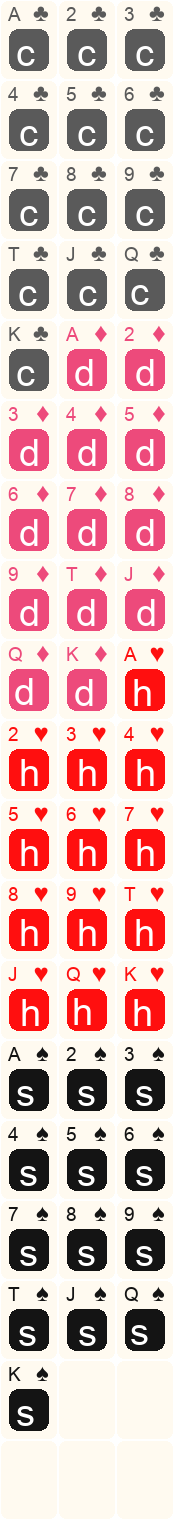
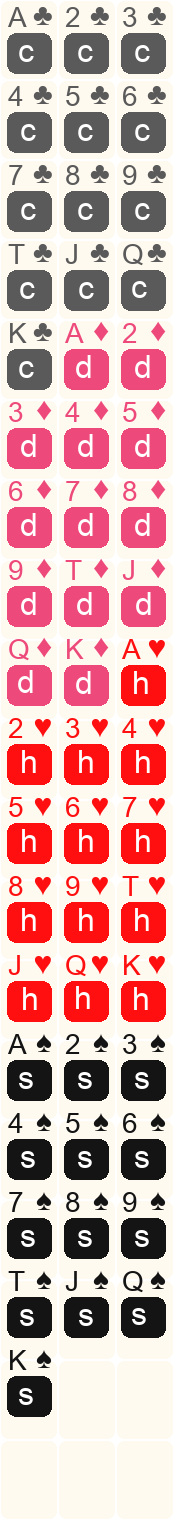
more Y for header area of card to allow larger font

diff --git a/src/scenes/game-scene.ts b/src/scenes/game-scene.ts
@@ -8,7 +8,7 @@ import { Effects } from '../lib/effects';
 // scale factor for card image game objects // not used
 
 // vertical gap between stacked cards i.e. in tableau
-const STACK_Y_GAP = 22 * UI_CONFIG.scale;
+const STACK_Y_GAP = 28 * UI_CONFIG.scale;
 
 // horizontal random shift to make tableau less precise
 const maxShiftX = 0;
@@ -18,11 +18,11 @@ const CARD_BACK_FRAME = 56;
 
 // shadow settings for cards
 const SHADOW_REST_X = 0;
-const SHADOW_REST_Y = +2;
-const SHADOW_REST_INTENSITY = 0.2;
+const SHADOW_REST_Y = 0;
+const SHADOW_REST_INTENSITY = 0;
 const SHADOW_DRAG_X = -4;
-const SHADOW_DRAG_Y = -5;
-const SHADOW_DRAG_INTENSITY = 0.5;
+const SHADOW_DRAG_Y = -6;
+const SHADOW_DRAG_INTENSITY = 0.9;
 
 // x & y positions of the 4 foundation piles
 const FOUNDATION_PILE_X_POSITIONS = [360, 425, 490, 555];

diff --git a/src/scenes/preload-scene.ts b/src/scenes/preload-scene.ts
@@ -14,7 +14,7 @@ export class PreloadScene extends Phaser.Scene {
     this.load.image(ASSET_KEYS.CLICK_TO_START, 'assets/images/clickToStart.png');
 
     // this.load.spritesheet(ASSET_KEYS.CARDS, 'assets/images/cards_edge-0.png', {
-    this.load.spritesheet(ASSET_KEYS.CARDS, 'assets/images/cards_edge-0_alias-4.png', { // 56x78, from 4x blanks
+    this.load.spritesheet(ASSET_KEYS.CARDS, 'assets/images/cards_edge-0-top-1.png', { // 56x78, from 4x blanks
     // this.load.spritesheet(ASSET_KEYS.CARDS, 'assets/images/cards_edge-0_scale-4.png', {
       frameWidth: CARD_WIDTH,
       frameHeight: CARD_HEIGHT,

diff --git a/src/scenes/common.ts b/src/scenes/common.ts
@@ -3,7 +3,7 @@ export const UI_CONFIG = {
   // scene control for developer convenience
   skipTitleScene: true,
   // partly transparent red areas show extent of dropzones
-  showDropZones: true,
+  showDropZones: false,
 } as const;
 
 export const SCENE_KEYS = {

diff --git a/dev/code/write_deck_resize.py b/dev/code/write_deck_resize.py
@@ -5,7 +5,7 @@ from datetime import datetime
 
 def generate_cards():
     # card dimensions and layout
-    scale = 4
+    scale = 1
     card_width = 56 * scale
     card_height = 78 * scale
     card_spacing = 1 * scale # 0 for tight deck spritesheet
@@ -27,9 +27,11 @@ def generate_cards():
 
     # load blank cards deck image
     # old version had 1-pixel black border on each card
-    input_path = "dev/art/cards_blank_56x78_corner-7_edge-0_scale-4.png"
-    output_path = "public/assets/images/cards_edge-0-top-1_alias-4.png"
-    # output_path = "public/assets/images/cards_edge-0_alias-4.png"
+    # input_path = "dev/art/cards_blank_56x78_corner-7_edge-0_scale-4.png"
+    input_path = "dev/art/cards_blank_56x78_corner-7_edge-0-top-1.png"
+
+    #output_path = "public/assets/images/cards_edge-0-top-1_alias-4.png"
+    output_path = "public/assets/images/cards_edge-0-top-1.png"
 
     # version for 4x big image
     # output_path = "public/assets/images/cards_edge-0_scale-4.png"
@@ -38,9 +40,7 @@ def generate_cards():
         img = Image.open(input_path)
         draw = ImageDraw.Draw(img)
         # font for placeholder text
-        phFont = ImageFont.truetype("/System/Library/Fonts/Arial.ttf", 32 * scale)
-        # font for top-left identifier
-        fontsmall = ImageFont.truetype("/System/Library/Fonts/Arial.ttf", 24 * scale)      
+        phFont = ImageFont.truetype("/System/Library/Fonts/Arial.ttf", 36 * scale)     
         
         # generate 52 cards (4 suits × 13 values)
         card_position = 0
@@ -70,14 +70,15 @@ def generate_cards():
                 text_width = bbox[2] - bbox[0]
                 text_height = bbox[3] - bbox[1]
 
-                # 1. Colored rectangle (card area minus a white margin)
+                # 1. Colored rectangle (card area minus a white sideMargin)
                 # Placeholder will be replaced by Suit theme art
-                margin = 6 * scale
-                topmargin = 28 * scale # how much space above graphic
-                rect_x1 = x - card_width//2 + margin
-                rect_y1 = y - card_height//2 + topmargin 
-                rect_x2 = x + card_width//2 - margin
-                rect_y2 = y + card_height//2 - margin
+                phMargin = 5 * scale
+                header = 28 * scale # how much space above graphic
+
+                rect_x1 = x - card_width//2 + phMargin
+                rect_y1 = y - card_height//2 + header 
+                rect_x2 = x + card_width//2 - phMargin
+                rect_y2 = y + card_height//2 - phMargin
 
                 # draw.rectangle([rect_x1, rect_y1, rect_x2, rect_y2], fill=colour)
                 graphic_y = rect_y1 + 4 * scale  # start below top area
@@ -92,71 +93,55 @@ def generate_cards():
                 draw.text((text_x, text_y), suitLetter, fill=(255,255,255), font=phFont)
 
                 # 3. Small identifiers visible when card stacked
-                draw.text((xt + 7 * scale, yt + 0 * scale), value, fill=colour, font=fontsmall)
-
-                #4. suit symbol, diamond small in font
-                if (suitLetter == 'd'):
-                  fontSymbol = ImageFont.truetype("/System/Library/Fonts/Arial.ttf", 26 * scale)    
+                # font for top-left identifier
+                if (value == 'Q'):
+                  fontsmall = ImageFont.truetype("/System/Library/Fonts/Arial.ttf", 30 * scale)
+                  leftMargin = 4
                 else:
-                  fontSymbol = ImageFont.truetype("/System/Library/Fonts/Arial.ttf", 24 * scale)
+                  fontsmall = ImageFont.truetype("/System/Library/Fonts/Arial.ttf", 30 * scale)
+                  leftMargin = 6
 
-                topIndent = -4 * scale
-                rightIndent = 21 * scale
+
+                draw.text((xt + leftMargin * scale, yt - 2 * scale), value, fill=colour, font=fontsmall)
+
+                #4. suit symbol
+                symbolFontSize = 36
+                if (suitLetter == 'h'):
+                  fontSymbol = ImageFont.truetype("/System/Library/Fonts/Arial.ttf", (symbolFontSize-2) * scale)
+                elif (suitLetter == 'c'):
+                  fontSymbol = ImageFont.truetype("/System/Library/Fonts/Arial.ttf", (symbolFontSize-2) * scale)     
+                else:
+                  fontSymbol = ImageFont.truetype("/System/Library/Fonts/Arial.ttf", symbolFontSize * scale)
+
+                topIndent = -7 * scale
+                rightIndent = 24 * scale
 
                 if (suitLetter == 'h'):
                   topIndent = topIndent + 1 * scale
                   rightIndent = rightIndent + 2 * scale
 
                 elif (suitLetter == 'c'):
-                  topIndent = topIndent
-                  rightIndent = rightIndent + 3 * scale
+                  topIndent = topIndent + 1 * scale
+                  rightIndent = rightIndent + 4 * scale
 
                 elif (suitLetter == 'd'):
-                  topIndent = topIndent - 1 * scale
+                  topIndent = topIndent * scale
 
                 draw.text((xt + card_width - rightIndent, yt + topIndent), symbol, fill=colour, font=fontSymbol)
                 
                 card_position += 1
         
-        # backup existing file before saving
-        if os.path.exists(output_path):
-            timestamp = datetime.now().strftime("%Y%m%d_%H%M")
-            backup_path = f"dev/art/archive/cards_{timestamp}.png"
-            shutil.copy2(output_path, backup_path)
-            print(f"Backed up existing cards image to: {backup_path}")
+        # # backup existing file before saving
+        # if os.path.exists(output_path):
+        #     timestamp = datetime.now().strftime("%Y%m%d_%H%M")
+        #     backup_path = f"dev/art/archive/cards_{timestamp}.png"
+        #     shutil.copy2(output_path, backup_path)
+        #     print(f"Backed up existing cards image to: {backup_path}")
 
-        # resize down to 56x78 cards with best quality
-        final_width = img.width // scale
-        final_height = img.height // scale
-        img = img.resize((final_width, final_height), Image.Resampling.LANCZOS)
-
-        # # add top and top-corners edge/border
-        # draw_final = ImageDraw.Draw(img)
-        # corner_radius = 7
-
-        # for card_num in range(57):  # all cards including backs
-        #     row = card_num // cards_across
-        #     col = card_num % cards_across
-            
-        #     card_spacing_final = 1
-        #     card_width_final = 56
-        #     card_height_final = 78
-            
-        #     x = card_spacing_final + col * (card_width_final + card_spacing_final)
-        #     y = card_spacing_final + row * (card_height_final + card_spacing_final)
-            
-        #     # draw rounded border - arc for top left corner
-        #     draw_final.arc([x, y, x + corner_radius*2, y + corner_radius*2], 
-        #                   180, 270, fill=(0, 0, 0, 77), width=1)
-            
-        #     # straight line across top (between corners)
-        #     draw_final.line([(x + corner_radius, y), (x + card_width_final - corner_radius - 1, y)], 
-        #                     fill=(0, 0, 0, 77), width=1)
-            
-        #     # arc for top right corner
-        #     draw_final.arc([x + card_width_final - corner_radius*2 - 1, y, 
-        #                     x + card_width_final - 1, y + corner_radius*2], 
-        #                   270, 0, fill=(0, 0, 0, 77), width=1)
+        # # resize down to 56x78 cards with best quality
+        # final_width = img.width // scale
+        # final_height = img.height // scale
+        # img = img.resize((final_width, final_height), Image.Resampling.LANCZOS)
 
         # save the result
         img.save(output_path)

diff --git a/dev/code/blank_deck_maker.py b/dev/code/blank_deck_maker.py
@@ -4,7 +4,7 @@ import os
 
 def create_blank_cards_template():
     """make deck of blank playing cards at 56 by 78 pixels per card"""
-    scale = 4
+    scale = 1
     card_width = 56 * scale
     card_height = 78 * scale
     cards_across = 3
@@ -15,8 +15,6 @@ def create_blank_cards_template():
     # calculate total image size
     total_width = cards_across * card_width + (cards_across + 1) * card_spacing
     total_height = cards_down * card_height + (cards_down + 1) * card_spacing
-    # total_width = cards_across * card_width + card_spacing * (cards_across + 1) + (cards_across - 1)
-    # total_height = cards_down * card_height + card_spacing * (cards_down + 1) + (cards_down - 1)
     
     print(f"Making blank cards template: {total_width}x{total_height}px")
     print(f"Card size: {card_width}x{card_height}px")
@@ -39,8 +37,6 @@ def create_blank_cards_template():
           # calculate card position
           x = card_spacing + col * (card_width + card_spacing)
           y = card_spacing + row * (card_height + card_spacing)
-          # x = card_spacing + col * (card_width + card_spacing + 1*scale)
-          # y = card_spacing + row * (card_height + card_spacing + 1*scale)
             
           # draw rounded rectangle for card - outline and fill
           draw_rounded_rectangle(
@@ -53,10 +49,44 @@ def create_blank_cards_template():
                           outline_colour,
                           stroke_width
                       )
+          
+    # after drawing all cards, add top borders
+    for row in range(cards_down):
+        for col in range(cards_across):
+            # calculate card position
+            x = card_spacing + col * (card_width + card_spacing)
+            y = card_spacing + row * (card_height + card_spacing)
+            
+            # draw top border elements
+            border_colour = (0, 0, 0, 100)  # black
+            
+            # top-left corner arc
+            draw.arc(
+                [x, y, x + corner_radius * 2, y + corner_radius * 2],
+                180, 270,
+                fill=border_colour,
+                width=1
+            )
+            
+            # straight line across top (between corners)
+            draw.line(
+                [(x + corner_radius, y), (x + card_width - corner_radius - 1, y)],
+                fill=border_colour,
+                width=1
+            )
+            
+            # top-right corner arc
+            draw.arc(
+                [x + card_width - corner_radius * 2 - 1, y, 
+                x + card_width - 1, y + corner_radius * 2],
+                270, 0,
+                fill=border_colour,
+                width=1
+            )
     
     # save the blank template
-    output_path = "dev/art/cards_blank_56x78_corner-7_edge-0_scale-4.png"
-    # output_path = "dev/art/cards_blank_56x78_corner-7_edge-0.png"
+    #output_path = "dev/art/cards_blank_56x78_corner-7_edge-0_scale-4.png"
+    output_path = "dev/art/cards_blank_56x78_corner-7_edge-0-top-1.png"
     os.makedirs(os.path.dirname(output_path), exist_ok=True)
     img.save(output_path)
     print(f"Saved blank cards template at: {output_path}")
